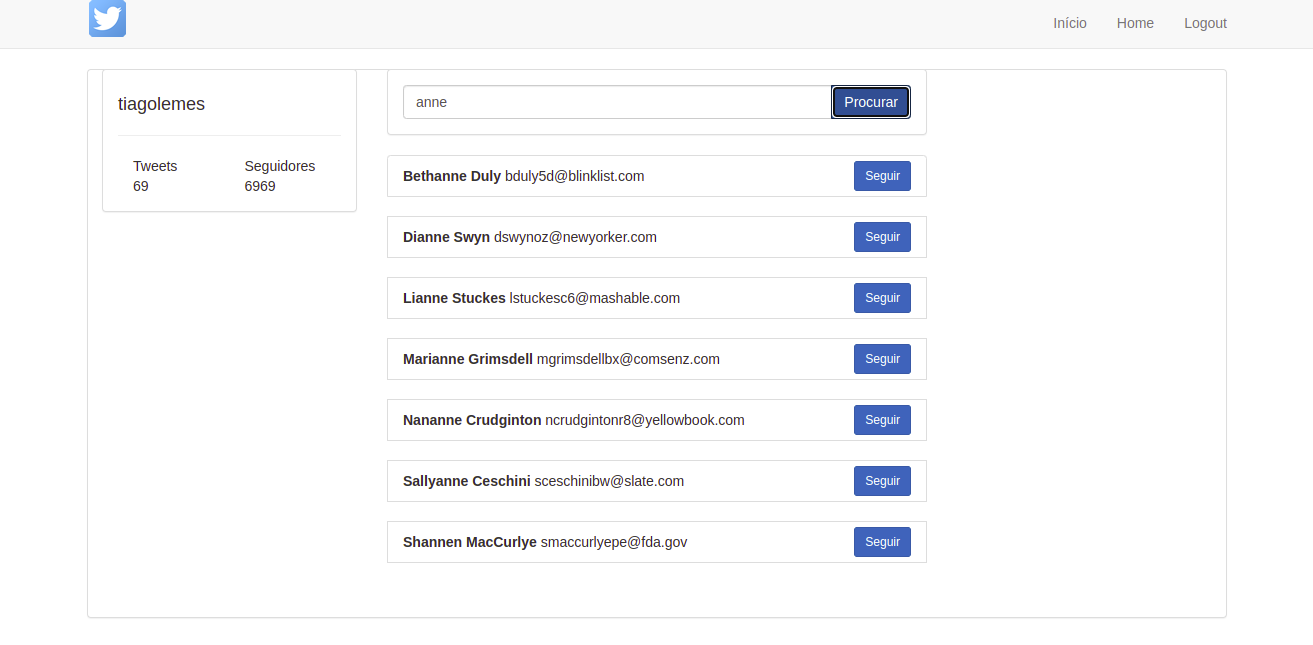
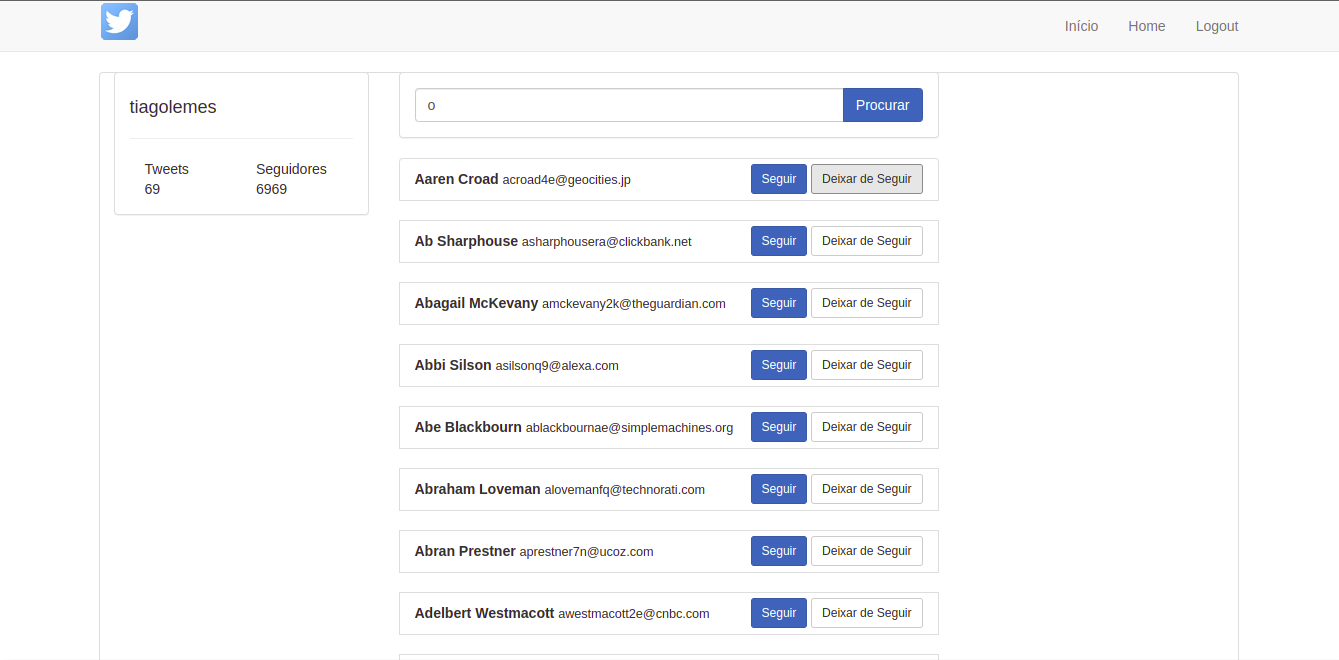
Deixando de seguir pessoas

diff --git a/js/procurar_pessoa.js b/js/procurar_pessoa.js
@@ -28,21 +28,37 @@ $(document).ready( function() {
 
 						})
 
-					})					
+					}) // fim de btn-seguir
+
+
+
+
+					$('.btn-deixar-de-seguir').click(function() {
+						let id_usuario = $(this).data('id_usuario')
+						
+						$.ajax({
+
+							url: 'php/deixar_de_seguir.php',
+							method: 'post',
+							data: {	seguir_id_usuario: id_usuario	},
+							success: function(data) {
+								alert(data)
+							}
+
+						})
+
+					}) // fim de btn-deixar-de-seguir				
+
+
+
+
 
 				}
 
-			})
-			
-			// fim de conecta com script php que faz a conexão
+			}) // fim de conecta com script php que faz a conexão
 	
 		}
 
-
 	}) // click
-
-
-
-
 
 }) // ready

diff --git a/php/get_pessoas.php b/php/get_pessoas.php
@@ -48,14 +48,24 @@ if ($resultado) {
 		?>
 		<p class="list-group-item">
 			<strong><?= $registro['nome'] ?></strong>
-			<smail><?= $registro['email'] ?></smail>
+			<smail style="font-size: 0.9em;"><?= $registro['email'] ?></smail>
 
-			<a href="javascript:void(0)" 
-				class="btn btn-sm btn-primary btn-seguir" 
-				style="float: right; margin-top: -5px;"
-				data-id_usuario="<?php echo $registro['id'] ?>">
-				Seguir
-			</a>
+			<span style="float: right; margin-top: -5px;">
+				<!-- botão seguir -->
+				<a href="javascript:void(0)" 
+					class="btn btn-sm btn-primary btn-seguir" 					
+					data-id_usuario="<?php echo $registro['id'] ?>">
+					Seguir
+				</a>
+
+				<!-- botão deixar de seguir -->
+				<a href="javascript:void(0)" 
+					class="btn btn-sm btn-default btn-deixar-de-seguir" 
+					data-id_usuario="<?php echo $registro['id'] ?>">
+					Deixar de Seguir
+				</a>
+				
+			</span>
 		</p>	
 
 		<br>		

diff --git a/php/deixar_de_seguir.php b/php/deixar_de_seguir.php
@@ -1,0 +1,45 @@
+<?php 
+
+/*
+* Este arquivo deve eliminar um registro na tabela pivô seguidores entre seguido e seguidor
+*/
+
+session_start();
+
+require_once('db.class.php');
+
+// mais segurança
+if ($_SESSION['usuario_id'] == null) {
+	header("Location: ..");
+	die();
+}
+
+// usuário logado
+$usuario_id_seguia = $_SESSION['usuario_id'];
+
+// usuário a deixar de ser seguido
+$usuario_id_a_nao_ser_seguido = $_POST['seguir_id_usuario'];
+
+// segurança
+if ($usuario_id_a_nao_ser_seguido == '' || $usuario_id_seguia == '') {
+	die();	
+}
+
+$sql = "DELETE FROM seguidores 
+				WHERE segue_id = $usuario_id_seguia 
+				AND seguindo_id = $usuario_id_a_nao_ser_seguido";
+
+// coisas de conexão
+$obj_db = new db();
+
+$link = $obj_db->conecta_mysql();
+
+// erro de sql
+if (!mysqli_query($link, $sql)) {
+	echo 'Erro em deixar de seguir usuário';
+	die();
+}
+else{
+	echo 'Deixou de seguir usuário';
+	die();
+}

diff --git a/php/seguir.php b/php/seguir.php
@@ -1,7 +1,7 @@
 <?php 
 
 /*
-* Este arquivo deve adicionar um tweet ao banco de dado
+* Este arquivo deve criar um registro na tabela pivô seguidores entre seguido e seguidor
 */
 
 session_start();
@@ -36,10 +36,10 @@ $link = $obj_db->conecta_mysql();
 
 // erro de sql
 if (!mysqli_query($link, $sql)) {
-	echo 'Erro em seguir usuário';
+	echo 'Erro em seguir usuário ou você já segue este usuário';
 	die();
 }
 else{
-	echo 'success';
+	echo 'Seguindo usuário';
 	die();
 }
